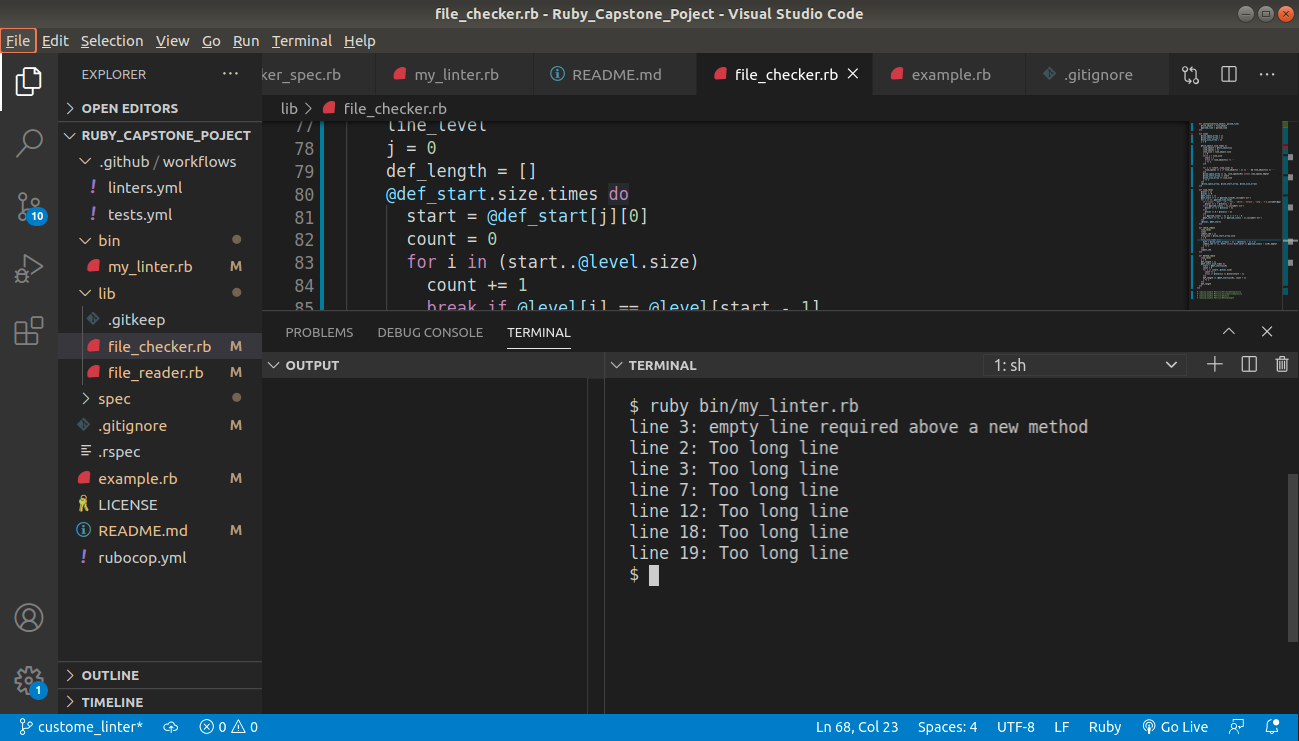
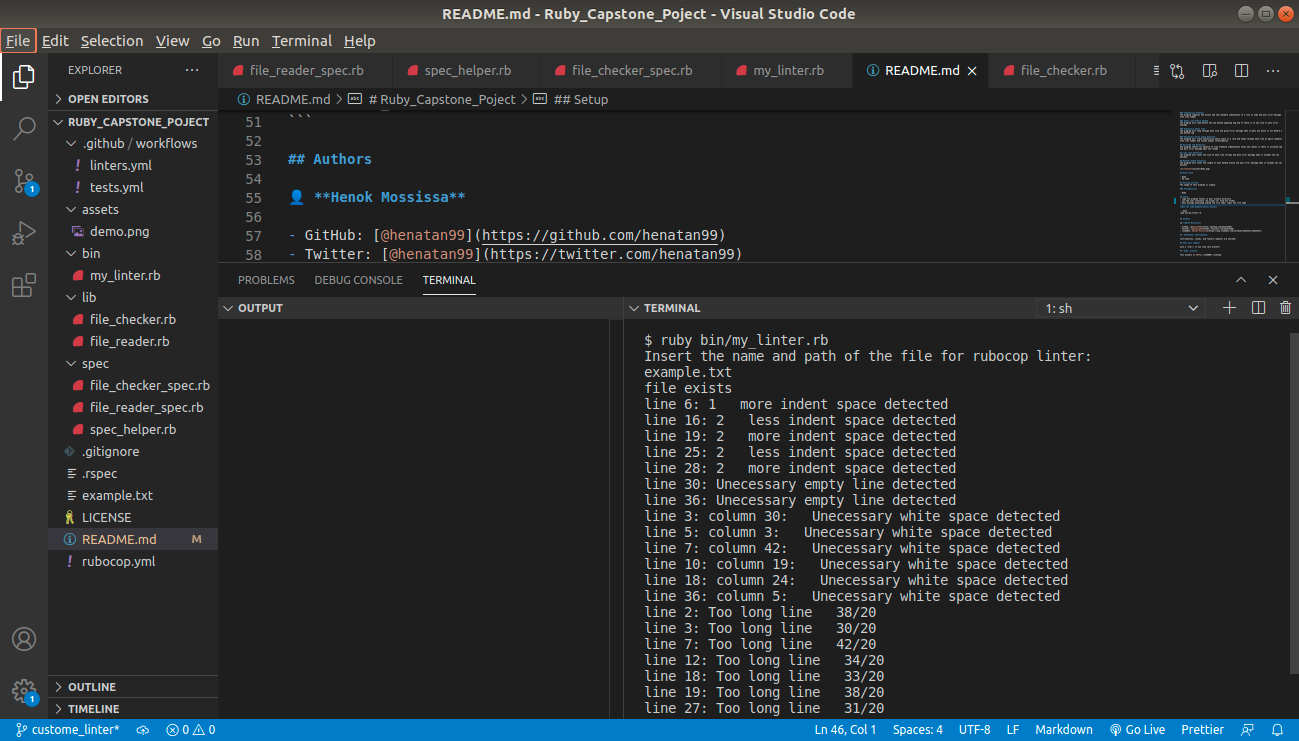
Slight touch on readme file and changes demo screenshot pic

diff --git a/README.md b/README.md
@@ -40,9 +40,9 @@ The usage of this program is simple.
 - Ruby
 
 ## Setup
-- copy the files in bin and lib to the working directory 
-- Create class object by giving file name and path as argument 
-    file = ReadFile.new('example.rb')
+- copy the program folder in your project directory
+- run the user interface 'my_linter.rb' from bin folder 
+- Once message displayed asking the file name, input the file name
 
 **Run the code demonstrations below**
 
